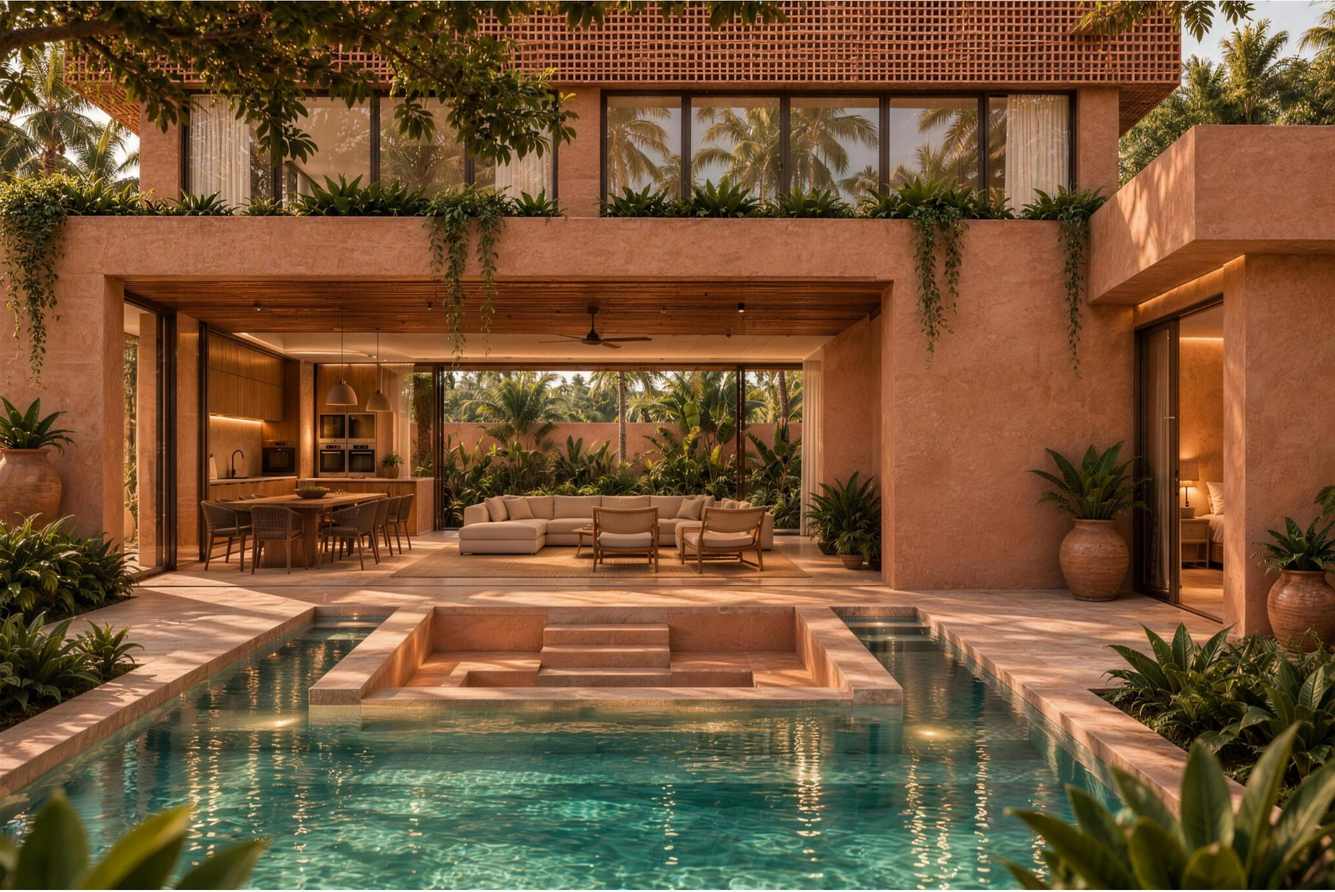
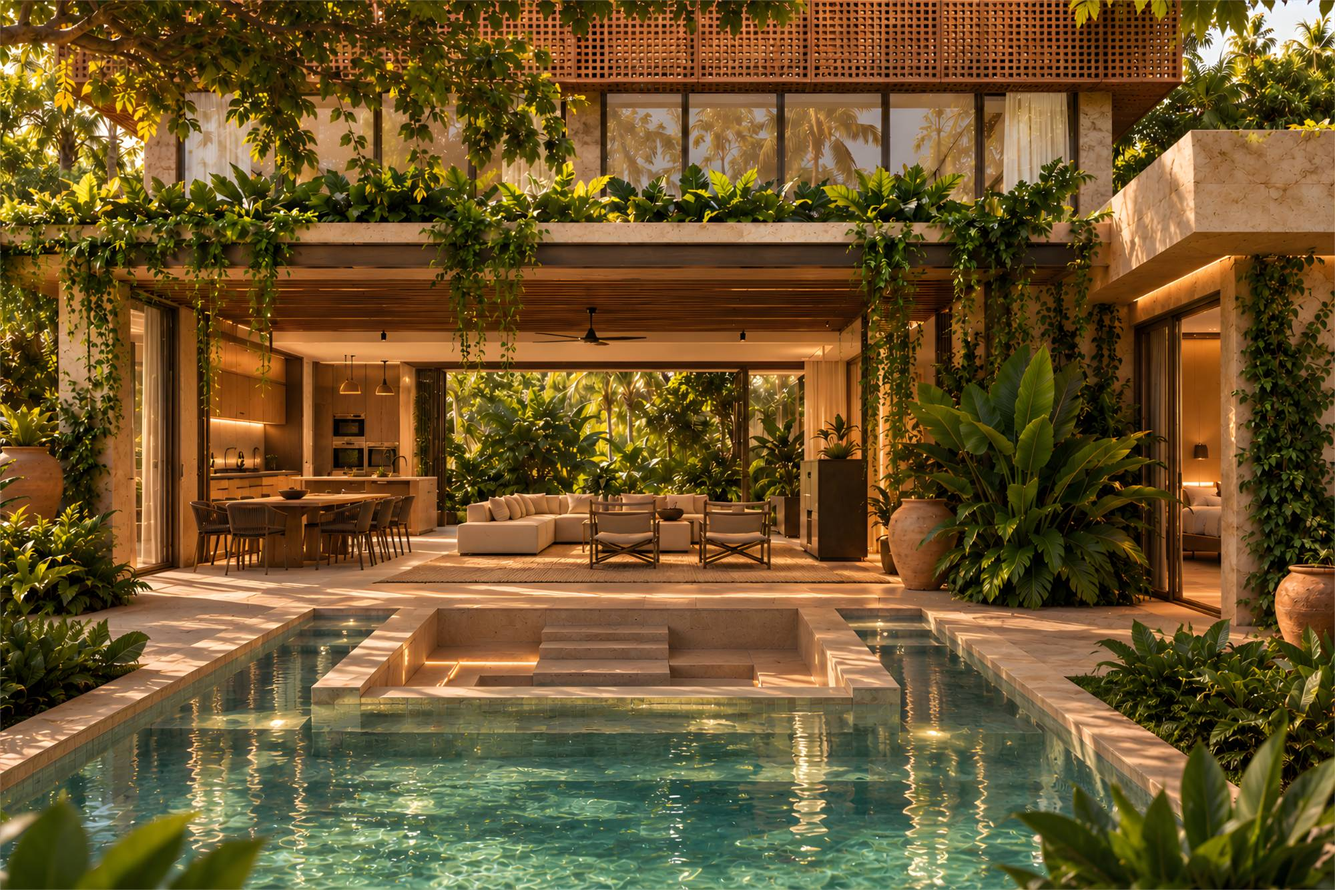
Add the two garden pavilion photos to the gallery and update the pool court photo
Claude-Session: https://claude.ai/code/session_01CeNxHXC7xbrvAVUy3UxxkZ

diff --git a/index.html b/index.html
@@ -359,12 +359,30 @@
         </div>
         <div class="gallery__viewport" data-gallery-viewport data-cursor="Drag">
           <ul class="gallery__track" data-gallery-track>
+            <li class="gallery__item gallery__item--wide">
+              <figure class="media">
+                <img
+                  data-pic="gallery-pavilion-house"
+                  alt="A vine-covered garden pavilion with built-in seating, looking across the lawn to the farmhouse at sunset"
+                  sizes="(min-width: 900px) 52vw, 88vw"
+                />
+              </figure>
+            </li>
             <li class="gallery__item gallery__item--tall">
               <figure class="media">
                 <img
                   data-pic="gallery-doorway"
                   alt="A woman walking out through a tall doorway into the garden"
                   sizes="(min-width: 900px) 30vw, 72vw"
+                />
+              </figure>
+            </li>
+            <li class="gallery__item gallery__item--wide">
+              <figure class="media">
+                <img
+                  data-pic="gallery-pavilion"
+                  alt="A garden pavilion draped in flowering creepers, with a curved stone seat around a low table and lit steps"
+                  sizes="(min-width: 900px) 52vw, 88vw"
                 />
               </figure>
             </li>
